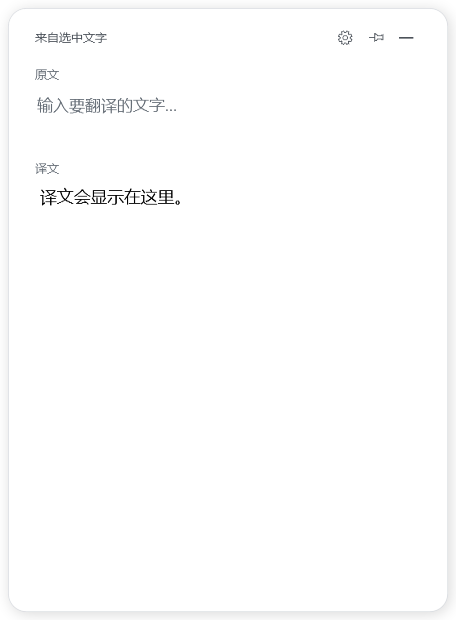
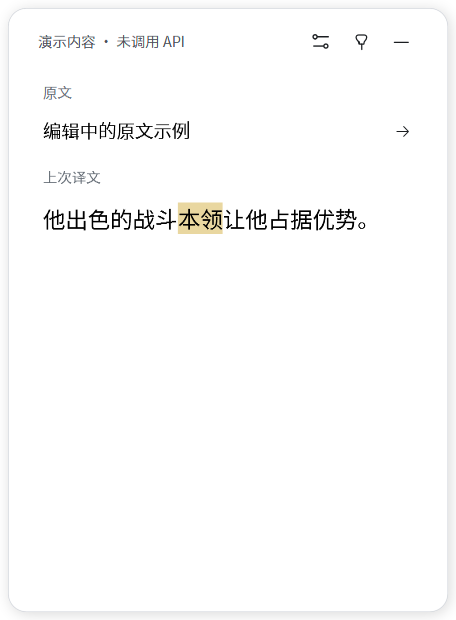
Release Leaf v0.5.0 with capture, reading, learning and storage improvements

diff --git a/tests/WindowsNativeTests.cs b/tests/WindowsNativeTests.cs
@@ -81,11 +81,11 @@ public static class WindowsNativeTests
             using (var transport = new FixtureTransport())
             using (var shell = new AppShell(store, true, new LlmClient(transport))) {
                 var window = new SettingsWindow(shell);
-                Ui.Get<ComboBox>(window.Window, "ProviderCombo").SelectedIndex = 2;
-                Ui.Get<ComboBox>(window.Window, "ModelInput").Text = "fixture-model";
-                Ui.Get<PasswordBox>(window.Window, "ApiKeyInput").Password = sampleKey;
-                Ui.Get<TextBox>(window.Window, "ShortcutInput").Text = "alt + space";
-                Ui.Get<Button>(window.Window, "SaveSettingsButton").RaiseEvent(new RoutedEventArgs(Button.ClickEvent));
+                Ui.Get<ComboBox>(window.Panel, "ProviderCombo").SelectedIndex = 2;
+                Ui.Get<ComboBox>(window.Panel, "ModelInput").Text = "fixture-model";
+                Ui.Get<PasswordBox>(window.Panel, "ApiKeyInput").Password = sampleKey;
+                Ui.Get<TextBox>(window.Panel, "ShortcutInput").Text = "alt + space";
+                Ui.Get<Button>(window.Panel, "SaveSettingsButton").RaiseEvent(new RoutedEventArgs(Button.ClickEvent));
                 await shell.WaitForSettingsAsync();
                 string chosenId = settings.Providers[2].Id;
                 Check(store.Settings.ProviderId == chosenId, "The chosen provider is saved with its API key");
@@ -93,28 +93,28 @@ public static class WindowsNativeTests
                 Check(Credentials.Read(chosenProfile) == sampleKey && Credentials.Read(store.Settings.Providers[0]) == "",
                     "Credential Manager retains a Unicode key under the endpoint-bound provider target");
                 Check(!File.ReadAllText(Path.Combine(folder, "settings.json")).Contains(sampleKey), "Native credential saving never writes the key into local settings");
-                Check(Ui.Get<PasswordBox>(window.Window, "ApiKeyInput").Password.Length == 0 &&
-                    Ui.Get<TextBlock>(window.Window, "KeyPlaceholder").Text.Replace(" ", "") == "●●●●●●●●" &&
-                    Ui.Get<TextBlock>(window.Window, "KeyHint").Text.Contains("已保存密钥"), "Applying a key clears the editor, shows only password dots and places its saved status below");
+                Check(Ui.Get<PasswordBox>(window.Panel, "ApiKeyInput").Password.Length == 0 &&
+                    Ui.Get<StackPanel>(window.Panel, "KeyDots").Visibility == Visibility.Visible && Ui.Get<StackPanel>(window.Panel, "KeyDots").Children.Count == 8 &&
+                    Ui.Get<TextBlock>(window.Panel, "KeyHint").Text.Contains("密钥已保存"), "Applying a key clears the editor, shows only password dots and places its saved status below");
                 window.Window.Close();
                 await shell.WaitForSettingsAsync();
                 window = new SettingsWindow(shell);
-                Check(((ProviderProfile)Ui.Get<ComboBox>(window.Window, "ProviderCombo").SelectedItem).Id == chosenId &&
-                    Ui.Get<TextBlock>(window.Window, "KeyHint").Text.Contains("已保存密钥"), "Reopened settings recognize the saved key for the active provider");
-                var keyEditor = Ui.Get<PasswordBox>(window.Window, "ApiKeyInput");
-                var mask = Ui.Get<TextBlock>(window.Window, "KeyPlaceholder");
+                Check(((ProviderProfile)Ui.Get<ComboBox>(window.Panel, "ProviderCombo").SelectedItem).Id == chosenId &&
+                    Ui.Get<TextBlock>(window.Panel, "KeyHint").Text.Contains("密钥已保存"), "Reopened settings recognize the saved key for the active provider");
+                var keyEditor = Ui.Get<PasswordBox>(window.Panel, "ApiKeyInput");
+                var mask = Ui.Get<StackPanel>(window.Panel, "KeyDots");
                 Check(keyEditor.Password.Length == 0 && keyEditor.PasswordChar == '●' && mask.Visibility == Visibility.Visible,
                     "Reopened saved credentials are represented by a visible separate dot mask, never filled back into the password editor");
                 keyEditor.Password = "replacement-fixture";
                 Check(mask.Visibility == Visibility.Collapsed && Credentials.Read(chosenProfile) == sampleKey,
                     "Typing a replacement hides the mask and keeps the saved key until explicitly applied");
                 keyEditor.Clear();
-                Check(mask.Visibility == Visibility.Visible && !mask.Text.Contains("已保存") && mask.Text.Replace(" ", "") == "●●●●●●●●",
+                Check(mask.Visibility == Visibility.Visible && mask.Children.Count == 8 && mask.Children.Cast<System.Windows.Shapes.Ellipse>().All(dot => dot.Fill != null),
                     "Clearing an uncommitted replacement restores a dots-only placeholder");
-                Ui.Get<Button>(window.Window, "SaveSettingsButton").RaiseEvent(new RoutedEventArgs(Button.ClickEvent));
+                Ui.Get<Button>(window.Panel, "SaveSettingsButton").RaiseEvent(new RoutedEventArgs(Button.ClickEvent));
                 await shell.WaitForSettingsAsync();
                 Check(Credentials.Read(chosenProfile) == sampleKey, "Saving with a blank password preserves the existing credential");
-                Ui.Get<ComboBox>(window.Window, "ModelInput").Text = "fixture-model-2"; await Task.Delay(650);
+                Ui.Get<ComboBox>(window.Panel, "ModelInput").Text = "fixture-model-2"; await Task.Delay(650);
                 await shell.WaitForSettingsAsync();
                 Check(store.Settings.Provider.Model == "fixture-model-2" && Credentials.Read(store.Settings.Provider) == sampleKey,
                     "Model auto-apply preserves the saved native key");
@@ -122,7 +122,13 @@ public static class WindowsNativeTests
                 await shell.WaitForSettingsAsync();
 
                 window = new SettingsWindow(shell); window.Window.Show(); window.Window.Activate();
-                var recorder = Ui.Get<TextBox>(window.Window, "ShortcutInput");
+                var recorder = Ui.Get<TextBox>(window.Panel, "ShortcutInput");
+                // The recorder is inside the collapsed desktop-preferences section.
+                for (DependencyObject parent = recorder; parent != null; parent = LogicalTreeHelper.GetParent(parent)) {
+                    var expander = parent as Expander;
+                    if (expander != null) expander.IsExpanded = true;
+                }
+                window.Window.UpdateLayout(); recorder.BringIntoView();
                 recorder.Focus(); await Dispatcher.Yield(DispatcherPriority.ApplicationIdle);
                 var registrationField = typeof(AppShell).GetField("shortcutRegistration", BindingFlags.Instance | BindingFlags.NonPublic);
                 Check(recorder.IsKeyboardFocused && recorder.IsReadOnly && recorder.Text.Contains("请按下") && registrationField.GetValue(shell) == null,

diff --git a/src/Leaf/Version.cs b/src/Leaf/Version.cs
@@ -2,7 +2,7 @@ namespace Leaf
 {
     internal static class LeafVersion
     {
-        public const string SemVer = "0.4.1";
+        public const string SemVer = "0.5.0";
         public const string Assembly = SemVer + ".0";
     }
 }

diff --git a/README.en.md b/README.en.md
@@ -37,7 +37,7 @@ Open [the latest release](https://github.com/Inmata/leaf-translate/releases/late
 
 1. **Extract the entire ZIP** into a folder you intend to keep.
 2. Keep `Leaf.exe` and `Leaf.exe.config` together, then launch `Leaf.exe`.
-3. The settings window opens on first launch. Configure an API to begin translating.
+3. The settings page inside the popup opens on first launch. Configure an API to begin translating.
 
 | Item | Requirement or behavior |
 | --- | --- |
@@ -96,64 +96,38 @@ Click **Ask (追问)** to reveal the input. Questions concern the selected word 
 
 ### 4. Type or edit your own text
 
-When no text is captured, the shortcut immediately opens an editable popup ready for manual input, without a generic error and without discarding the existing translation. With existing text, click the pencil beside the source, or enable **Direct input on shortcut (快捷键唤起后直接输入)** to focus and select it automatically. `Enter` or the arrow beside the editor submits a new conversation; `Shift+Enter` inserts a new line. Clearing the draft without submitting keeps the current result: pressing the shortcut again on the same text restores that conversation's translation, word cards, and questions without repeating the request. Drag to select translated text, then use `Ctrl+C` or the copy context menu. There is no separate copy-translation button.
+When no text is captured, the shortcut quietly reopens the popup with its previous page, translation, and draft intact; it does not automatically enter editing. Click the source pencil to get ready for manual input. Successful captures can focus the source when direct input is enabled. `Enter` or the arrow beside the editor submits a new conversation; `Shift+Enter` inserts a new line. Clearing the draft without submitting keeps the current result: invoking the shortcut on the same text restores the conversation without repeating the request. Translation and learning text support continuous selection and `Ctrl+C`. Select a different passage inside Leaf and invoke the shortcut to translate it; the return entry restores the original conversation.
 
 [![Manual source editing and translation](docs/images/manual-input.png)](docs/images/manual-input.png)
 
 ## Screenshots
 
-These views are rendered from the v0.4.1 Clear paper interface. Text, model choices, conversations, saved-key state, and history are demonstration content; no live API was called. The app UI is currently Chinese. Click an image to view it at full size.
+These views are rendered from the v0.5.0 Clear paper interface. Text, model choices, conversations, saved-key state, and history are demonstration content; no live API was called. The app UI is currently Chinese. Click an image to view it at full size.
 
-<table>
-  <tr>
-    <td valign="top" width="50%">
-      <strong>Translation and word cards</strong><br>
-      Keep the original passage visible, explore a word, and highlight a matching translation phrase when available.<br><br>
-      <a href="docs/images/popup.png"><img src="docs/images/popup.png" alt="Leaf translation popup with a contextual word card and synonym comparison" width="380"></a>
-    </td>
-    <td valign="top" width="50%">
-      <strong>Follow-up questions</strong><br>
-      Continue discussing the same passage, review the conversation, and reveal the input when needed.<br><br>
-      <a href="docs/images/follow-up.png"><img src="docs/images/follow-up.png" alt="Follow-up conversation and question input in the Leaf popup" width="380"></a>
-    </td>
-  </tr>
-  <tr>
-    <td valign="top">
-      <strong>API and reading context</strong><br>
-      Choose a provider, model, context, and target language, with details specific to the selected context.<br><br>
-      <a href="docs/images/settings.png"><img src="docs/images/settings.png" alt="Provider, API key, book context, and target language settings" width="380"></a>
-    </td>
-    <td valign="top">
-      <strong>Learning options and presets</strong><br>
-      Select what to learn, add a custom option, and save combinations for later.<br><br>
-      <a href="docs/images/learning.png"><img src="docs/images/learning.png" alt="Learning preferences, custom options, and preset management" width="380"></a>
-    </td>
-  </tr>
-  <tr>
-    <td valign="top">
-      <strong>Desktop preferences</strong><br>
-      Set clipboard behavior, the shortcut, startup, and history retention.<br><br>
-      <a href="docs/images/behavior.png"><img src="docs/images/behavior.png" alt="Clipboard, shortcut, startup, and history preferences" width="380"></a>
-    </td>
-    <td valign="top">
-      <strong>Local history</strong><br>
-      Search source text or translations, reopen a record, and resume learning.<br><br>
-      <a href="docs/images/history.png"><img src="docs/images/history.png" alt="Searchable local translation history with reopen and delete controls" width="380"></a>
-    </td>
-  </tr>
-  <tr>
-    <td valign="top">
-      <strong>Advanced model options</strong><br>
-      Automatic defaults, with thinking effort and output limits available when needed.<br><br>
-      <a href="docs/images/advanced.png"><img src="docs/images/advanced.png" alt="GLM-5.3 Flash automatic thinking, light effort, and output cap" width="380"></a>
-    </td>
-    <td valign="top">
-      <strong>A compact popup</strong><br>
-      Smaller text and spacing, full-size buttons, and scrollable longer content.<br><br>
-      <a href="docs/images/compact.png"><img src="docs/images/compact.png" alt="A smaller Leaf popup showing source text, translation, and a word card" width="300"></a>
-    </td>
-  </tr>
-</table>
+Translation and learning: source, translation, and continuously selectable learning text.
+
+[![Translation and learning](docs/images/popup.png)](docs/images/popup.png)
+
+Settings inside the popup: service configuration and return to reading.
+
+[![Settings inside the popup](docs/images/settings.png)](docs/images/settings.png)
+
+Follow-up questions: continue discussing the current word or passage.
+
+[![Follow-up questions](docs/images/follow-up.png)](docs/images/follow-up.png)
+
+Source editing: explicit input and submission.
+
+[![Source editing](docs/images/manual-input.png)](docs/images/manual-input.png)
+
+Compact popup: the smaller reading view.
+
+[![Compact popup](docs/images/compact.png)](docs/images/compact.png)
+
+Local history: search and reopen saved records.
+
+[![Local history](docs/images/history.png)](docs/images/history.png)
+
 
 ## Make it work for your learning
 
@@ -196,7 +170,7 @@ Smaller windows use slightly smaller body text, line spacing, and padding, with 
 
 The visible popup has a taskbar entry; hiding it keeps the tray icon. You can set `Alt+Space` in settings. While Leaf runs, that combination translates instead of opening the Windows system menu. If another shortcut utility uses the same combination, change it in one of the apps.
 
-Opening preserves focus by default. Enable **Direct input on shortcut (快捷键唤起后直接输入)** to focus and select the source automatically. The gear beside the pin opens settings; **History (历史记录)** is available from the tray menu. Check the hidden-icons area if you cannot find Leaf.
+Opening preserves focus by default. Enable **Direct input on shortcut (快捷键唤起后直接输入)** to focus and select the source automatically. The settings button beside the pin toggles the settings page inside the popup; **History (历史记录)** is available from the tray menu. Check the hidden-icons area if you cannot find Leaf.
 
 ## Data and privacy
 

diff --git a/docs/RELEASE-v0.5.0.md b/docs/RELEASE-v0.5.0.md
@@ -1,0 +1,53 @@
+# Leaf v0.5.0
+
+这次更新围绕可靠取词、流畅阅读和更自然的学习体验，整合了自 0.4.1 以来的改进。
+
+## 重点变化
+
+- **Codeg / WebView2 取词兼容**：允许读取经当前窗口归属验证的跨进程 WebView 文本，不再因渲染进程 PID 不同而漏掉选区。Codeg 实际选中文字取词已由用户确认可用。
+- **长原文拖选与滚动更流畅**：原文改用只读 TextBox 呈现，词语命中及高亮通过文本位置映射保留，避免原先阅读呈现路径的额外开销。长文拖选卡顿已由用户确认解决。
+- **学习内容更自然**：按偏好解释当前词形、易混区别、可靠构词、实用搭配与短例句；优先放回原句，避免生硬罗列和无依据的词源推断。
+- **学习区连续选择**：标题与正文组成同一可选文档，可连续拖选并复制；译文正确呈现 Markdown 强调，不再露出格式标记。
+- **同浮窗设置页**：设置与阅读共用窗口；设置按钮再次点击或「返回」恢复原文、译文、学习内容和追问草稿。改善下拉框、空预设、密钥占位及按钮状态。
+- **会话恢复与内部取词**：Leaf 内选中的不同文本直接进入翻译，不模拟复制；可返回根会话。相同原文恢复已有结果，清空未提交草稿后也不重复请求。
+- **安静唤起与准确重试**：空选区或暂时无法取得文字时保留当前状态，不自动进入输入；取消与重试只针对对应操作，迟到响应不覆盖当前会话。
+- **纸面阅读界面**：调整字号、留白、文本对齐、图标和悬停滚轮行为；内嵌思源黑体 Regular / Bold，无需系统安装字体。
+
+## 正确性与数据安全
+
+改善连续书写语言判断和 Unicode 截断；设置按顺序提交并支持故障恢复，密钥只保存在 Windows Credential Manager 且绑定接口地址。历史按条恢复异常数据，按 UTF-8 字节限制大小，后台保存并在退出时冲刷；删除和关闭保存后，迟到结果不会复活。取词日志区分选区、复制回退和剪贴板模式，仅记录结构化元数据。
+
+发布源码镜像同步新增、修改和删除文件；程序集、manifest 与包版本由同一常量生成。
+
+## 验证
+
+1082 项核心与应用断言、119 项离屏 WPF smoke 检查通过。原生检查通过前 25 项后，因测试窗口未获得系统前台而中止，不宣称原生全套通过；测试凭据已清理。Codeg 实际取词、长文拖选及整体观感由用户实测确认。
+
+## 升级与后续
+
+从托盘退出旧版，完整解压 **Leaf-v0.5.0-windows.zip**，运行 `Leaf.exe` 并保留旁边的 `Leaf.exe.config`。沿用现有设置、历史和凭据，旧凭据按已保存接口迁移。内嵌字体使程序体积增加。程序尚未代码签名。
+
+[模型用量统计](https://github.com/Inmata/leaf-translate/issues/1)、[语音](https://github.com/Inmata/leaf-translate/issues/2)、[设置页进一步优化](https://github.com/Inmata/leaf-translate/issues/3)和[部分缩放下轻微字体锯齿](https://github.com/Inmata/leaf-translate/issues/4)将通过 Issues 跟踪，不包含在本版。不同应用的取词能力仍有差异，不承诺所有自绘或受限窗口均可读取。API 自动检查使用隔离模拟响应，不代表所有真实供应商接口均已验证。
+
+---
+
+# Leaf v0.5.0 — English
+
+This release brings the improvements since 0.4.1 together: more reliable capture, smoother reading, and more natural learning.
+
+- **Codeg / WebView2 capture:** selections may come from a different renderer process when their ownership by the captured window has been verified. The user confirmed real Codeg selection capture works.
+- **Smoother long-source selection and scrolling:** a read-only TextBox renders the source, with mapped word hits and highlights preserving learning interactions. The user confirmed the long-text selection slowdown is resolved.
+- **Natural explanations:** describe the current word form, practical synonym distinctions, supported word formation, collocations, and short examples according to selected preferences. Use sentence context and avoid unsupported etymology claims.
+- **Continuous learning selection:** headings and body text share one selectable document. Translation emphasis renders correctly instead of showing Markdown markers.
+- **Settings in the same popup:** toggle settings again or use Return to restore the source, translation, learning content, and follow-up draft. Dropdowns, empty presets, saved-key placeholders, and button states are improved.
+- **Internal capture and session restoration:** selected Leaf text is read directly without simulated copying. Different text opens a child conversation with a return to its root; matching text restores existing results without another request.
+- **Quiet reopening and focused retries:** empty or unavailable selections preserve the current state without automatically entering editing. Cancellation and retry keep operation identity; late responses cannot replace the current conversation.
+- **Clear paper UI:** refined typography, spacing, alignment, icons, and hover scrolling. Source Han Sans SC Regular and Bold are embedded; no font installation is required.
+
+Correctness and storage improvements include continuous-script language handling, Unicode-safe truncation, ordered settings commits and recovery, endpoint-bound Windows Credential Manager keys, per-record history recovery, UTF-8 byte limits, background saves, and exit flushing. Deleted history cannot be resurrected by late results. Diagnostic logs contain metadata only. Source publication mirrors additions, changes, and deletions; one version constant drives assembly, manifest, and package versions.
+
+Validation passed 1,082 core/application assertions and 119 offscreen WPF smoke checks. Native checks passed the first 25 assertions, then stopped because the fixture window could not obtain foreground ownership; the native suite is not reported as fully passed. Test credentials were cleaned up. The user confirmed real Codeg capture, long-text selection performance, and overall appearance.
+
+Exit the old app through the tray, fully extract **Leaf-v0.5.0-windows.zip**, and keep `Leaf.exe.config` beside `Leaf.exe`. Existing settings, history, and credentials are retained; legacy keys migrate against their saved endpoint. Embedded fonts increase the app size. The app is not code-signed.
+
+[Usage statistics](https://github.com/Inmata/leaf-translate/issues/1), [voice features](https://github.com/Inmata/leaf-translate/issues/2), [settings layout](https://github.com/Inmata/leaf-translate/issues/3), and [slight font jaggedness](https://github.com/Inmata/leaf-translate/issues/4) are tracked in Issues, outside this release. Capture support varies by application. Automated API scenarios use isolated fixtures and do not establish compatibility with every live provider.

diff --git a/docs/USAGE.en.md b/docs/USAGE.en.md
@@ -38,11 +38,11 @@ Source text is limited to 6000 UTF-16 code units per request. Split long passage
 
 ## Type and copy text
 
-When nothing is captured, the shortcut opens a source editor immediately, ready for manual input without a generic error, and without discarding an existing translation. With existing text, use the pencil beside the source or enable direct input. Press `Enter` or the arrow button at the right of the input to submit a new conversation; `Shift+Enter` inserts a new line. `Esc` exits editing and restores the original display.
+When nothing is captured, the shortcut quietly reopens the popup and preserves its current page, translation, and draft without entering editing. Click the source pencil when ready for manual input. Successful captures focus the source only when direct input is enabled. `Enter` or the arrow button submits a new conversation; `Shift+Enter` inserts a new line. `Esc` exits editing and restores the source display.
 
-On the shortcut: a confirmed empty selection is not an error and only prepares manual input. When the selection could not be read, the source badge says no selection was captured and its tooltip gives the reason. Pressing the shortcut again on the same text returns to the existing translation, word card and follow-up draft without repeating the request or adding an API call, including after clearing the editor without submitting. An edited but unsubmitted draft is kept rather than overwritten.
+On the shortcut: a confirmed empty selection is not an error and preserves the page. When the selection could not be read, the source badge says no selection was captured and its tooltip gives the reason. Invoking the shortcut on the same text restores the translation, word card, and follow-up draft without repeating the request or adding an API call, including after clearing the editor without submitting. An edited but unsubmitted draft is kept.
 
-Select translated text and press `Ctrl+C`, or use its copy context menu. `Ctrl+A` selects all. Clipboard contention produces a visible error without blocking the UI. There is no separate copy button. Ask is at the lower left; its input can be collapsed.
+Translation and learning headings/body support continuous selection and `Ctrl+C` or the copy context menu. `Ctrl+A` selects the document. Select different text inside Leaf and invoke the shortcut to start a child conversation; the return entry restores its root, word card, and draft. Matching the current source does not create another session. The settings button opens a page inside the same popup; click it again or use Return to resume reading without losing content. Ask is at the lower left; its input can be collapsed.
 
 ## Explore words and phrases
 
@@ -70,7 +70,7 @@ Expand **Add a learning preference (添加自己的学习偏好)** to provide a 
 
 ## Window and desktop preferences
 
-The popup preserves focus by default. Enable Direct input on shortcut (快捷键唤起后直接输入) to focus and select the source after capture. The gear beside the pin opens settings. Clicking outside hides an unpinned window; pinning keeps it visible. The hide button remains available when pinned.
+The popup preserves focus by default. Enable Direct input on shortcut (快捷键唤起后直接输入) to focus and select the source after capture. The settings button beside the pin toggles the settings page inside the popup. Clicking outside hides an unpinned window; pinning keeps it visible. The hide button remains available when pinned.
 
 The first popup appears on the right of the primary display. Moving and resizing automatically saves the last position and size for subsequent shortcuts and restarts. Retry keeps a visible popup in place. Drag to a secondary monitor directly; if it is removed or the work area shrinks, Leaf brings the popup into an available area.
 

diff --git a/AGENTS.md b/AGENTS.md
@@ -3,12 +3,16 @@
 Windows desktop selection-and-clipboard translation with user-provided LLM APIs.
 
 - Read docs/PRODUCT.md before changing product behavior.
-- Keep the popup minimal; providers, scenes, preferences and history belong in tray windows.
+- Keep the popup minimal. Translation service settings and reading preferences use a settings page inside the same popup; preserve the translation page and session when switching. History retains its existing separate entry.
 - Opening preserves focus by default; only the explicit direct-input preference activates it. Follow-up reveals the input and never automatically pins.
 - Clipboard mode reads only on shortcut invocation; never upload every copied item.
 - Preserve Unicode and context. Similar spelling is not evidence of common etymology.
 - Keys belong in Windows Credential Manager, never in settings, history or source.
 - Diagnostic logs contain structured metadata only; never log keys or reading/conversation content.
-- Build with scripts/build.ps1; test with scripts/test.ps1.
-- Verify embedded WPF XAML with the application's UI smoke renderer.
+- Leaf is currently a small exploratory application. Keep validation proportional to the changed behavior; do not introduce a new test framework, broad test infrastructure or mandatory TDD without an explicit need.
+- Build with scripts/build.ps1. Use existing test entry points for necessary logic regression, including scripts/test.ps1 when appropriate. Validate a completed group together; rerun only after a relevant change or actual failure.
+- Human-check visible UI and ordinary interactions. Agents verify builds and logic that is hard to reproduce or observe manually. Reuse smoke only for cheap XAML loading checks; do not add visual pixel checks, screenshot matrices or visual-only test seams unless explicitly requested.
+- For WPF layout exceptions, regress the failing operation with a minimal valid layout; do not expand the fix into precise drawing geometry tests or add public geometry accessors only for tests. If the host cannot exercise the failing path, report that limitation rather than treating a zero-layout pass as coverage.
+- Before joint validation, update affected control casts, interface references and expectations to match the confirmed behavior. After a failure, rerun the affected existing test entry; distinguish a failed full run from a later targeted pass.
+- Leaf targets .NET Framework 4.8. In-process WPF test helpers must use a compatible STA runtime; PowerShell 7 assembly loading is not equivalent to Windows PowerShell 5.1. Prefer the existing test executable over creating new helper scripts. If Leaf.exe is in use, use build.ps1 -OutputDirectory instead of terminating the user's process.
 - Exclude binaries, local data, credentials and work/ from public source.
